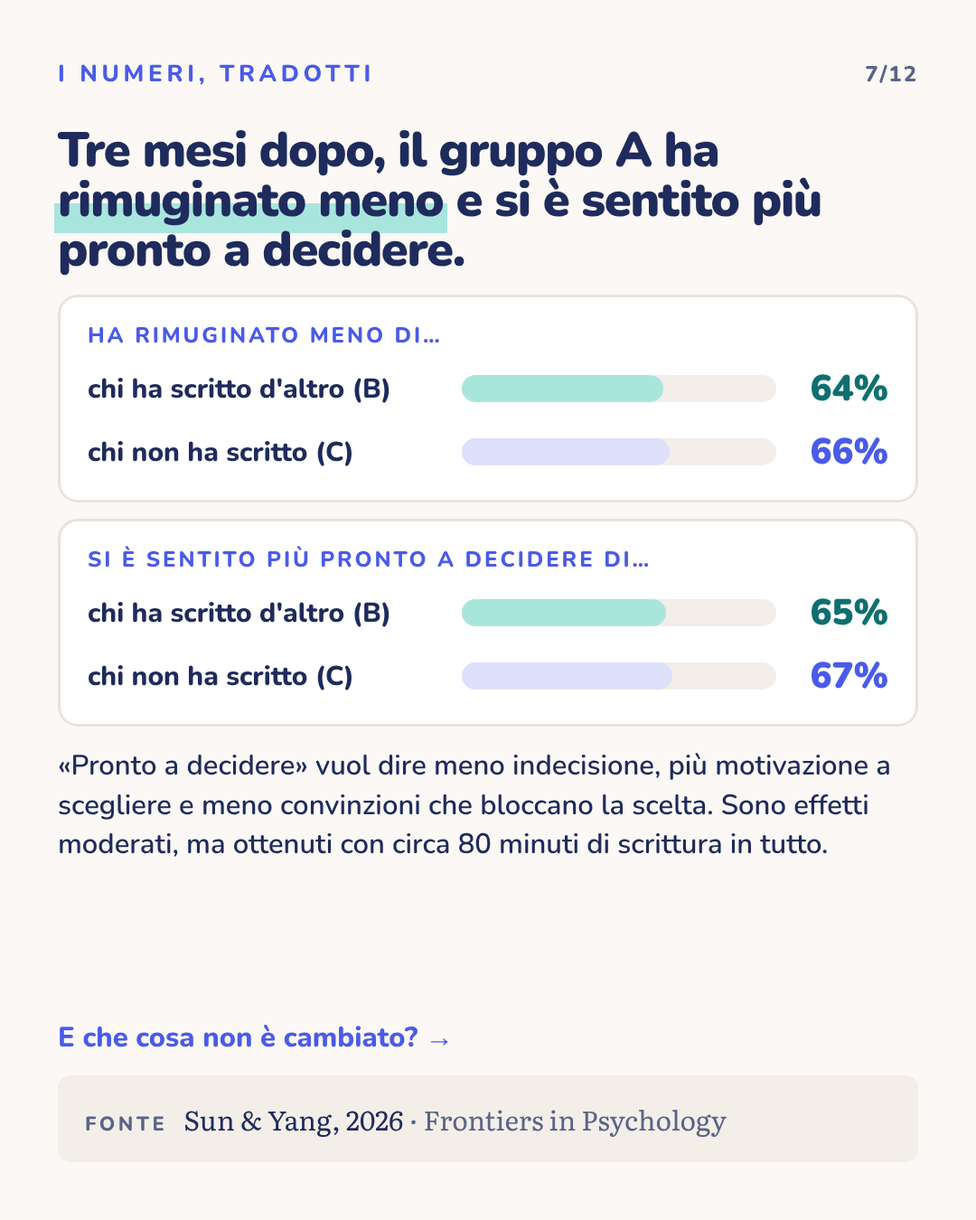
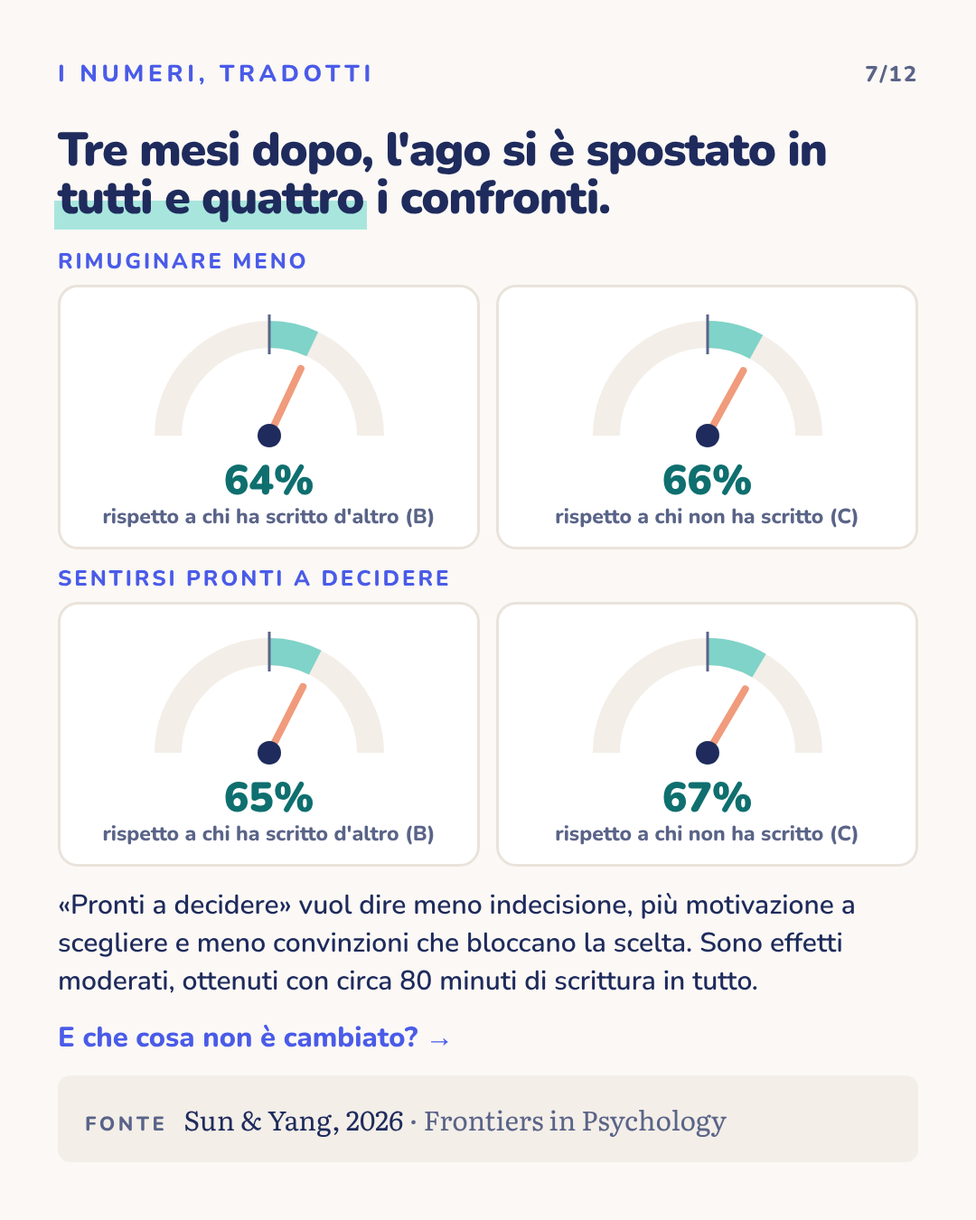
Direzione: one dial metaphor across slides 6-7, trim repetitions
Claude-Session: https://claude.ai/code/session_01KYQeP73Zvn8PeP6zhkL2Sc

Changed region(s): [[0.0611, 0.0933, 0.9472, 0.8089], [0.9167, 0.5911, 0.9472, 0.6222]]

diff --git a/carosselli/direzione/editor-testi.html b/carosselli/direzione/editor-testi.html
@@ -191,6 +191,12 @@ svg.shape{position:absolute;z-index:1}
 .sub .m{background:var(--sunk)}.sub .p{background:var(--teal-soft)}
 .sub small{font-weight:800;font-size:21px;letter-spacing:.12em;text-transform:uppercase;color:var(--muted)}
 .sub .p small{color:var(--teal-text)}
+.dg{display:flex;flex-direction:column;gap:10px}
+.dg small{font-weight:800;font-size:24px;letter-spacing:.12em;text-transform:uppercase;color:var(--peri);margin-top:6px}
+.dr{display:grid;grid-template-columns:1fr 1fr;gap:18px}
+.dc{background:var(--raised);border:3px solid var(--line);border-radius:22px;padding:14px 18px 18px;display:flex;flex-direction:column;align-items:center;gap:2px}
+.dc b{font-weight:900;font-size:46px;color:var(--teal-text);line-height:1}
+.dc span{font-weight:700;font-size:23px;color:var(--muted);text-align:center;line-height:1.3}
 .sub b{font-weight:900;font-size:40px;line-height:1.2}
 
 </style>
@@ -276,12 +282,14 @@ svg.shape{position:absolute;z-index:1}
 </section></div></div></div><div class="cell"><span class="lab">Slide 7 di 12</span><div class="frame"><div class="deck"><section class="slide" id="s7">
   <div class="top"><p class="kicker we" data-e="s7-1">I numeri, tradotti</p><div class="count" data-e="s7-2">7/12</div></div>
   <div class="stack" style="margin-top:40px;gap:22px">
-    <h2 style="font-size:54px" data-e="s7-3">Tre mesi dopo, il gruppo A ha <span class="hl t">rimuginato meno</span> e si è sentito più pronto a decidere.</h2>
-    <div class="cmp2">
-      <div class="pair"><small data-e="s7-4">Ha rimuginato meno di…</small><div class="ln"><span data-e="s7-5">chi ha scritto d'altro (B)</span><div class="tr"><i style="width:64%;background:var(--teal-soft)"></i></div><b style="color:var(--teal-text)" data-e="s7-6">64%</b></div><div class="ln"><span data-e="s7-7">chi non ha scritto (C)</span><div class="tr"><i style="width:66%;background:var(--peri-soft)"></i></div><b style="color:var(--peri)" data-e="s7-8">66%</b></div></div>
-      <div class="pair"><small data-e="s7-9">Si è sentito più pronto a decidere di…</small><div class="ln"><span data-e="s7-10">chi ha scritto d'altro (B)</span><div class="tr"><i style="width:65%;background:var(--teal-soft)"></i></div><b style="color:var(--teal-text)" data-e="s7-11">65%</b></div><div class="ln"><span data-e="s7-12">chi non ha scritto (C)</span><div class="tr"><i style="width:67%;background:var(--peri-soft)"></i></div><b style="color:var(--peri)" data-e="s7-13">67%</b></div></div>
+    <h2 style="font-size:52px" data-e="s7-3">Tre mesi dopo, l'ago si è spostato in <span class="hl t">tutti e quattro</span> i confronti.</h2>
+    <div class="dg">
+      <small data-e="s7-4">Rimuginare meno</small>
+      <div class="dr"><div class="dc"><svg width="300" height="175" viewBox="0 0 300 175"><path d="M38.0 150.0 A112 112 0 0 1 262.0 150.0" fill="none" stroke="#F3EEE8" stroke-width="30"></path><path d="M150.0 38.0 A112 112 0 0 1 197.7 48.7" fill="none" stroke="#7FD3C8" stroke-width="30"></path><line x1="150.0" y1="60.0" x2="150.0" y2="16.0" stroke="#5A6488" stroke-width="3"></line><line x1="150" y1="150" x2="184.9" y2="75.8" stroke="#F09B7C" stroke-width="8" stroke-linecap="round"></line><circle cx="150" cy="150" r="13" fill="#1E2B5C"></circle></svg><b data-e="s7-5">64%</b><span data-e="s7-6">rispetto a chi ha scritto d'altro (B)</span></div><div class="dc"><svg width="300" height="175" viewBox="0 0 300 175"><path d="M38.0 150.0 A112 112 0 0 1 262.0 150.0" fill="none" stroke="#F3EEE8" stroke-width="30"></path><path d="M150.0 38.0 A112 112 0 0 1 204.0 51.9" fill="none" stroke="#7FD3C8" stroke-width="30"></path><line x1="150.0" y1="60.0" x2="150.0" y2="16.0" stroke="#5A6488" stroke-width="3"></line><line x1="150" y1="150" x2="189.5" y2="78.1" stroke="#F09B7C" stroke-width="8" stroke-linecap="round"></line><circle cx="150" cy="150" r="13" fill="#1E2B5C"></circle></svg><b data-e="s7-7">66%</b><span data-e="s7-8">rispetto a chi non ha scritto (C)</span></div></div>
+      <small data-e="s7-9">Sentirsi pronti a decidere</small>
+      <div class="dr"><div class="dc"><svg width="300" height="175" viewBox="0 0 300 175"><path d="M38.0 150.0 A112 112 0 0 1 262.0 150.0" fill="none" stroke="#F3EEE8" stroke-width="30"></path><path d="M150.0 38.0 A112 112 0 0 1 200.8 50.2" fill="none" stroke="#7FD3C8" stroke-width="30"></path><line x1="150.0" y1="60.0" x2="150.0" y2="16.0" stroke="#5A6488" stroke-width="3"></line><line x1="150" y1="150" x2="187.2" y2="76.9" stroke="#F09B7C" stroke-width="8" stroke-linecap="round"></line><circle cx="150" cy="150" r="13" fill="#1E2B5C"></circle></svg><b data-e="s7-10">65%</b><span data-e="s7-11">rispetto a chi ha scritto d'altro (B)</span></div><div class="dc"><svg width="300" height="175" viewBox="0 0 300 175"><path d="M38.0 150.0 A112 112 0 0 1 262.0 150.0" fill="none" stroke="#F3EEE8" stroke-width="30"></path><path d="M150.0 38.0 A112 112 0 0 1 207.0 53.6" fill="none" stroke="#7FD3C8" stroke-width="30"></path><line x1="150.0" y1="60.0" x2="150.0" y2="16.0" stroke="#5A6488" stroke-width="3"></line><line x1="150" y1="150" x2="191.7" y2="79.4" stroke="#F09B7C" stroke-width="8" stroke-linecap="round"></line><circle cx="150" cy="150" r="13" fill="#1E2B5C"></circle></svg><b data-e="s7-12">67%</b><span data-e="s7-13">rispetto a chi non ha scritto (C)</span></div></div>
     </div>
-    <p class="mid" style="font-size:31px" data-e="s7-14">«Pronto a decidere» vuol dire meno indecisione, più motivazione a scegliere e meno convinzioni che bloccano la scelta. Sono effetti moderati, ma ottenuti con circa 80 minuti di scrittura in tutto.</p>
+    <p class="mid" style="font-size:30px" data-e="s7-14">«Pronti a decidere» vuol dire meno indecisione, più motivazione a scegliere e meno convinzioni che bloccano la scelta. Sono effetti moderati, ottenuti con circa 80 minuti di scrittura in tutto.</p>
   </div>
   <p class="next" data-e="s7-15">E che cosa non è cambiato? →</p>
   <div class="src"><b data-e="s7-16">FONTE</b><span data-e="s7-17"><em>Sun &amp; Yang, 2026</em> · Frontiers in Psychology</span></div>
@@ -293,10 +301,9 @@ svg.shape{position:absolute;z-index:1}
       <div><span class="x" data-e="s8-4">=</span><p data-e="s8-5"><b>Esplorare</b>Chi ha scritto del lavoro futuro non ha riflettuto su di sé né cercato informazioni sui lavori più degli altri gruppi.</p></div>
       <div><span class="x" data-e="s8-6">=</span><p data-e="s8-7"><b>Trovare lavoro</b>Tre mesi dopo, nessuna differenza dimostrata nei contratti firmati, nelle offerte ricevute o nella soddisfazione per il lavoro.</p></div>
     </div>
-    <p class="mid" style="font-size:36px" data-e="s8-8">È cambiato il <b>modo</b> di pensare al futuro, non la quantità di ricerca.</p>
   </div>
-  <p class="next" data-e="s8-9">Perché potrebbe funzionare →</p>
-  <div class="src"><b data-e="s8-10">FONTE</b><span data-e="s8-11"><em>Sun &amp; Yang, 2026</em> · Frontiers in Psychology</span></div>
+  <p class="next" data-e="s8-8">Perché potrebbe funzionare →</p>
+  <div class="src"><b data-e="s8-9">FONTE</b><span data-e="s8-10"><em>Sun &amp; Yang, 2026</em> · Frontiers in Psychology</span></div>
 </section></div></div></div><div class="cell"><span class="lab">Slide 9 di 12</span><div class="frame"><div class="deck"><section class="slide" id="s9">
   <div class="top"><p class="kicker we" data-e="s9-1">Perché succede</p><div class="count" data-e="s9-2">9/12</div></div>
   <div class="stack" style="margin-top:70px;gap:34px">
@@ -315,7 +322,7 @@ svg.shape{position:absolute;z-index:1}
   <div class="stack" style="margin-top:90px;gap:36px">
     <p class="quote" data-e="s10-3">«Per capire che strada prendere, basta informarsi di più.»</p>
     <span class="badge mito" data-e="s10-4"><i>✕</i>MITO</span>
-    <p class="body" data-e="s10-5">In questo studio non è servito cercare di più: è contato <span class="hl">il modo di pensarci</span>. Chi ha immaginato con chiarezza il proprio futuro al lavoro ha rimuginato meno, e si è sentito più pronto a scegliere.</p>
+    <p class="body" data-e="s10-5">In questo studio il gruppo che si è sentito più pronto a decidere non aveva cercato più informazioni degli altri: aveva immaginato con più chiarezza <span class="hl">il proprio lavoro futuro</span>.</p>
   </div>
   <p class="next" data-e="s10-6">Prima di concludere, i limiti →</p>
   <div class="src"><b data-e="s10-7">FONTE</b><span data-e="s10-8"><em>Sun &amp; Yang, 2026</em> · Frontiers in Psychology</span></div>

diff --git a/carosselli/direzione/slides.html b/carosselli/direzione/slides.html
@@ -161,6 +161,12 @@ svg.shape{position:absolute;z-index:1}
 .sub .m{background:var(--sunk)}.sub .p{background:var(--teal-soft)}
 .sub small{font-weight:800;font-size:21px;letter-spacing:.12em;text-transform:uppercase;color:var(--muted)}
 .sub .p small{color:var(--teal-text)}
+.dg{display:flex;flex-direction:column;gap:10px}
+.dg small{font-weight:800;font-size:24px;letter-spacing:.12em;text-transform:uppercase;color:var(--peri);margin-top:6px}
+.dr{display:grid;grid-template-columns:1fr 1fr;gap:18px}
+.dc{background:var(--raised);border:3px solid var(--line);border-radius:22px;padding:14px 18px 18px;display:flex;flex-direction:column;align-items:center;gap:2px}
+.dc b{font-weight:900;font-size:46px;color:var(--teal-text);line-height:1}
+.dc span{font-weight:700;font-size:23px;color:var(--muted);text-align:center;line-height:1.3}
 .sub b{font-weight:900;font-size:40px;line-height:1.2}
 </style>
 
@@ -249,12 +255,14 @@ svg.shape{position:absolute;z-index:1}
 <section class="slide" id="s7">
   <div class="top"><p class="kicker we">I numeri, tradotti</p><div class="count">7/12</div></div>
   <div class="stack" style="margin-top:40px;gap:22px">
-    <h2 style="font-size:54px">Tre mesi dopo, il gruppo A ha <span class="hl t">rimuginato meno</span> e si è sentito più pronto a decidere.</h2>
-    <div class="cmp2">
-      <div class="pair"><small>Ha rimuginato meno di…</small><div class="ln"><span>chi ha scritto d'altro (B)</span><div class="tr"><i style="width:64%;background:var(--teal-soft)"></i></div><b style="color:var(--teal-text)">64%</b></div><div class="ln"><span>chi non ha scritto (C)</span><div class="tr"><i style="width:66%;background:var(--peri-soft)"></i></div><b style="color:var(--peri)">66%</b></div></div>
-      <div class="pair"><small>Si è sentito più pronto a decidere di…</small><div class="ln"><span>chi ha scritto d'altro (B)</span><div class="tr"><i style="width:65%;background:var(--teal-soft)"></i></div><b style="color:var(--teal-text)">65%</b></div><div class="ln"><span>chi non ha scritto (C)</span><div class="tr"><i style="width:67%;background:var(--peri-soft)"></i></div><b style="color:var(--peri)">67%</b></div></div>
+    <h2 style="font-size:52px">Tre mesi dopo, l'ago si è spostato in <span class="hl t">tutti e quattro</span> i confronti.</h2>
+    <div class="dg">
+      <small>Rimuginare meno</small>
+      <div class="dr"><div class="dc"><svg width="300" height="175" viewBox="0 0 300 175"><path d="M38.0 150.0 A112 112 0 0 1 262.0 150.0" fill="none" stroke="#F3EEE8" stroke-width="30"></path><path d="M150.0 38.0 A112 112 0 0 1 197.7 48.7" fill="none" stroke="#7FD3C8" stroke-width="30"></path><line x1="150.0" y1="60.0" x2="150.0" y2="16.0" stroke="#5A6488" stroke-width="3"></line><line x1="150" y1="150" x2="184.9" y2="75.8" stroke="#F09B7C" stroke-width="8" stroke-linecap="round"></line><circle cx="150" cy="150" r="13" fill="#1E2B5C"></circle></svg><b>64%</b><span>rispetto a chi ha scritto d'altro (B)</span></div><div class="dc"><svg width="300" height="175" viewBox="0 0 300 175"><path d="M38.0 150.0 A112 112 0 0 1 262.0 150.0" fill="none" stroke="#F3EEE8" stroke-width="30"></path><path d="M150.0 38.0 A112 112 0 0 1 204.0 51.9" fill="none" stroke="#7FD3C8" stroke-width="30"></path><line x1="150.0" y1="60.0" x2="150.0" y2="16.0" stroke="#5A6488" stroke-width="3"></line><line x1="150" y1="150" x2="189.5" y2="78.1" stroke="#F09B7C" stroke-width="8" stroke-linecap="round"></line><circle cx="150" cy="150" r="13" fill="#1E2B5C"></circle></svg><b>66%</b><span>rispetto a chi non ha scritto (C)</span></div></div>
+      <small>Sentirsi pronti a decidere</small>
+      <div class="dr"><div class="dc"><svg width="300" height="175" viewBox="0 0 300 175"><path d="M38.0 150.0 A112 112 0 0 1 262.0 150.0" fill="none" stroke="#F3EEE8" stroke-width="30"></path><path d="M150.0 38.0 A112 112 0 0 1 200.8 50.2" fill="none" stroke="#7FD3C8" stroke-width="30"></path><line x1="150.0" y1="60.0" x2="150.0" y2="16.0" stroke="#5A6488" stroke-width="3"></line><line x1="150" y1="150" x2="187.2" y2="76.9" stroke="#F09B7C" stroke-width="8" stroke-linecap="round"></line><circle cx="150" cy="150" r="13" fill="#1E2B5C"></circle></svg><b>65%</b><span>rispetto a chi ha scritto d'altro (B)</span></div><div class="dc"><svg width="300" height="175" viewBox="0 0 300 175"><path d="M38.0 150.0 A112 112 0 0 1 262.0 150.0" fill="none" stroke="#F3EEE8" stroke-width="30"></path><path d="M150.0 38.0 A112 112 0 0 1 207.0 53.6" fill="none" stroke="#7FD3C8" stroke-width="30"></path><line x1="150.0" y1="60.0" x2="150.0" y2="16.0" stroke="#5A6488" stroke-width="3"></line><line x1="150" y1="150" x2="191.7" y2="79.4" stroke="#F09B7C" stroke-width="8" stroke-linecap="round"></line><circle cx="150" cy="150" r="13" fill="#1E2B5C"></circle></svg><b>67%</b><span>rispetto a chi non ha scritto (C)</span></div></div>
     </div>
-    <p class="mid" style="font-size:31px">«Pronto a decidere» vuol dire meno indecisione, più motivazione a scegliere e meno convinzioni che bloccano la scelta. Sono effetti moderati, ma ottenuti con circa 80 minuti di scrittura in tutto.</p>
+    <p class="mid" style="font-size:30px">«Pronti a decidere» vuol dire meno indecisione, più motivazione a scegliere e meno convinzioni che bloccano la scelta. Sono effetti moderati, ottenuti con circa 80 minuti di scrittura in tutto.</p>
   </div>
   <p class="next">E che cosa non è cambiato? →</p>
   <div class="src"><b>FONTE</b><span><em>Sun &amp; Yang, 2026</em> · Frontiers in Psychology</span></div>
@@ -268,7 +276,6 @@ svg.shape{position:absolute;z-index:1}
       <div><span class="x">=</span><p><b>Esplorare</b>Chi ha scritto del lavoro futuro non ha riflettuto su di sé né cercato informazioni sui lavori più degli altri gruppi.</p></div>
       <div><span class="x">=</span><p><b>Trovare lavoro</b>Tre mesi dopo, nessuna differenza dimostrata nei contratti firmati, nelle offerte ricevute o nella soddisfazione per il lavoro.</p></div>
     </div>
-    <p class="mid" style="font-size:36px">È cambiato il <b>modo</b> di pensare al futuro, non la quantità di ricerca.</p>
   </div>
   <p class="next">Perché potrebbe funzionare →</p>
   <div class="src"><b>FONTE</b><span><em>Sun &amp; Yang, 2026</em> · Frontiers in Psychology</span></div>
@@ -294,7 +301,7 @@ svg.shape{position:absolute;z-index:1}
   <div class="stack" style="margin-top:90px;gap:36px">
     <p class="quote">«Per capire che strada prendere, basta informarsi di più.»</p>
     <span class="badge mito"><i>✕</i>MITO</span>
-    <p class="body">In questo studio non è servito cercare di più: è contato <span class="hl">il modo di pensarci</span>. Chi ha immaginato con chiarezza il proprio futuro al lavoro ha rimuginato meno, e si è sentito più pronto a scegliere.</p>
+    <p class="body">In questo studio il gruppo che si è sentito più pronto a decidere non aveva cercato più informazioni degli altri: aveva immaginato con più chiarezza <span class="hl">il proprio lavoro futuro</span>.</p>
   </div>
   <p class="next">Prima di concludere, i limiti →</p>
   <div class="src"><b>FONTE</b><span><em>Sun &amp; Yang, 2026</em> · Frontiers in Psychology</span></div>

diff --git a/carosselli/direzione/body.html b/carosselli/direzione/body.html
@@ -86,6 +86,12 @@
 .sub .m{background:var(--sunk)}.sub .p{background:var(--teal-soft)}
 .sub small{font-weight:800;font-size:21px;letter-spacing:.12em;text-transform:uppercase;color:var(--muted)}
 .sub .p small{color:var(--teal-text)}
+.dg{display:flex;flex-direction:column;gap:10px}
+.dg small{font-weight:800;font-size:24px;letter-spacing:.12em;text-transform:uppercase;color:var(--peri);margin-top:6px}
+.dr{display:grid;grid-template-columns:1fr 1fr;gap:18px}
+.dc{background:var(--raised);border:3px solid var(--line);border-radius:22px;padding:14px 18px 18px;display:flex;flex-direction:column;align-items:center;gap:2px}
+.dc b{font-weight:900;font-size:46px;color:var(--teal-text);line-height:1}
+.dc span{font-weight:700;font-size:23px;color:var(--muted);text-align:center;line-height:1.3}
 .sub b{font-weight:900;font-size:40px;line-height:1.2}
 </style>
 
@@ -174,12 +180,14 @@
 <section class="slide" id="s7">
   <div class="top"><p class="kicker we">I numeri, tradotti</p><div class="count">7/12</div></div>
   <div class="stack" style="margin-top:40px;gap:22px">
-    <h2 style="font-size:54px">Tre mesi dopo, il gruppo A ha <span class="hl t">rimuginato meno</span> e si è sentito più pronto a decidere.</h2>
-    <div class="cmp2">
-      <div class="pair"><small>Ha rimuginato meno di…</small><div class="ln"><span>chi ha scritto d'altro (B)</span><div class="tr"><i style="width:64%;background:var(--teal-soft)"></i></div><b style="color:var(--teal-text)">64%</b></div><div class="ln"><span>chi non ha scritto (C)</span><div class="tr"><i style="width:66%;background:var(--peri-soft)"></i></div><b style="color:var(--peri)">66%</b></div></div>
-      <div class="pair"><small>Si è sentito più pronto a decidere di…</small><div class="ln"><span>chi ha scritto d'altro (B)</span><div class="tr"><i style="width:65%;background:var(--teal-soft)"></i></div><b style="color:var(--teal-text)">65%</b></div><div class="ln"><span>chi non ha scritto (C)</span><div class="tr"><i style="width:67%;background:var(--peri-soft)"></i></div><b style="color:var(--peri)">67%</b></div></div>
+    <h2 style="font-size:52px">Tre mesi dopo, l'ago si è spostato in <span class="hl t">tutti e quattro</span> i confronti.</h2>
+    <div class="dg">
+      <small>Rimuginare meno</small>
+      <div class="dr"><div class="dc"><svg width="300" height="175" viewBox="0 0 300 175"><path d="M38.0 150.0 A112 112 0 0 1 262.0 150.0" fill="none" stroke="#F3EEE8" stroke-width="30"></path><path d="M150.0 38.0 A112 112 0 0 1 197.7 48.7" fill="none" stroke="#7FD3C8" stroke-width="30"></path><line x1="150.0" y1="60.0" x2="150.0" y2="16.0" stroke="#5A6488" stroke-width="3"></line><line x1="150" y1="150" x2="184.9" y2="75.8" stroke="#F09B7C" stroke-width="8" stroke-linecap="round"></line><circle cx="150" cy="150" r="13" fill="#1E2B5C"></circle></svg><b>64%</b><span>rispetto a chi ha scritto d'altro (B)</span></div><div class="dc"><svg width="300" height="175" viewBox="0 0 300 175"><path d="M38.0 150.0 A112 112 0 0 1 262.0 150.0" fill="none" stroke="#F3EEE8" stroke-width="30"></path><path d="M150.0 38.0 A112 112 0 0 1 204.0 51.9" fill="none" stroke="#7FD3C8" stroke-width="30"></path><line x1="150.0" y1="60.0" x2="150.0" y2="16.0" stroke="#5A6488" stroke-width="3"></line><line x1="150" y1="150" x2="189.5" y2="78.1" stroke="#F09B7C" stroke-width="8" stroke-linecap="round"></line><circle cx="150" cy="150" r="13" fill="#1E2B5C"></circle></svg><b>66%</b><span>rispetto a chi non ha scritto (C)</span></div></div>
+      <small>Sentirsi pronti a decidere</small>
+      <div class="dr"><div class="dc"><svg width="300" height="175" viewBox="0 0 300 175"><path d="M38.0 150.0 A112 112 0 0 1 262.0 150.0" fill="none" stroke="#F3EEE8" stroke-width="30"></path><path d="M150.0 38.0 A112 112 0 0 1 200.8 50.2" fill="none" stroke="#7FD3C8" stroke-width="30"></path><line x1="150.0" y1="60.0" x2="150.0" y2="16.0" stroke="#5A6488" stroke-width="3"></line><line x1="150" y1="150" x2="187.2" y2="76.9" stroke="#F09B7C" stroke-width="8" stroke-linecap="round"></line><circle cx="150" cy="150" r="13" fill="#1E2B5C"></circle></svg><b>65%</b><span>rispetto a chi ha scritto d'altro (B)</span></div><div class="dc"><svg width="300" height="175" viewBox="0 0 300 175"><path d="M38.0 150.0 A112 112 0 0 1 262.0 150.0" fill="none" stroke="#F3EEE8" stroke-width="30"></path><path d="M150.0 38.0 A112 112 0 0 1 207.0 53.6" fill="none" stroke="#7FD3C8" stroke-width="30"></path><line x1="150.0" y1="60.0" x2="150.0" y2="16.0" stroke="#5A6488" stroke-width="3"></line><line x1="150" y1="150" x2="191.7" y2="79.4" stroke="#F09B7C" stroke-width="8" stroke-linecap="round"></line><circle cx="150" cy="150" r="13" fill="#1E2B5C"></circle></svg><b>67%</b><span>rispetto a chi non ha scritto (C)</span></div></div>
     </div>
-    <p class="mid" style="font-size:31px">«Pronto a decidere» vuol dire meno indecisione, più motivazione a scegliere e meno convinzioni che bloccano la scelta. Sono effetti moderati, ma ottenuti con circa 80 minuti di scrittura in tutto.</p>
+    <p class="mid" style="font-size:30px">«Pronti a decidere» vuol dire meno indecisione, più motivazione a scegliere e meno convinzioni che bloccano la scelta. Sono effetti moderati, ottenuti con circa 80 minuti di scrittura in tutto.</p>
   </div>
   <p class="next">E che cosa non è cambiato? →</p>
   <div class="src"><b>FONTE</b><span><em>Sun &amp; Yang, 2026</em> · Frontiers in Psychology</span></div>
@@ -193,7 +201,6 @@
       <div><span class="x">=</span><p><b>Esplorare</b>Chi ha scritto del lavoro futuro non ha riflettuto su di sé né cercato informazioni sui lavori più degli altri gruppi.</p></div>
       <div><span class="x">=</span><p><b>Trovare lavoro</b>Tre mesi dopo, nessuna differenza dimostrata nei contratti firmati, nelle offerte ricevute o nella soddisfazione per il lavoro.</p></div>
     </div>
-    <p class="mid" style="font-size:36px">È cambiato il <b>modo</b> di pensare al futuro, non la quantità di ricerca.</p>
   </div>
   <p class="next">Perché potrebbe funzionare →</p>
   <div class="src"><b>FONTE</b><span><em>Sun &amp; Yang, 2026</em> · Frontiers in Psychology</span></div>
@@ -219,7 +226,7 @@
   <div class="stack" style="margin-top:90px;gap:36px">
     <p class="quote">«Per capire che strada prendere, basta informarsi di più.»</p>
     <span class="badge mito"><i>✕</i>MITO</span>
-    <p class="body">In questo studio non è servito cercare di più: è contato <span class="hl">il modo di pensarci</span>. Chi ha immaginato con chiarezza il proprio futuro al lavoro ha rimuginato meno, e si è sentito più pronto a scegliere.</p>
+    <p class="body">In questo studio il gruppo che si è sentito più pronto a decidere non aveva cercato più informazioni degli altri: aveva immaginato con più chiarezza <span class="hl">il proprio lavoro futuro</span>.</p>
   </div>
   <p class="next">Prima di concludere, i limiti →</p>
   <div class="src"><b>FONTE</b><span><em>Sun &amp; Yang, 2026</em> · Frontiers in Psychology</span></div>

diff --git a/carosselli/direzione/kit-pubblicazione-direzione.md b/carosselli/direzione/kit-pubblicazione-direzione.md
@@ -6,6 +6,8 @@
 
 **Data consigliata:** **martedì 24 novembre 2026**, tra le 12:30 e le 14:00 oppure tra le 18:30 e le 20:00.
 
+**Una sola immagine per i numeri:** l'ago sul quadrante (slide 6 e 7); niente file, gare o probabilità.
+
 **Racconto lineare:** succede a molti → due modi di pensarci (esplorare / rimuginare) → la ricerca → che cosa hanno scritto → come leggere i numeri → i numeri, tradotti → che cosa non è cambiato → perché, secondo gli autori → mito o realtà → limiti → WeSelf. Prepara il bias di sabato (illusione della fine della storia), che tocca lo stesso tema.
 
 **Attenzioni:** nessun consiglio di carriera o promessa di trovare lavoro (lo studio non l'ha mostrato); «molte persone» per il rimuginare, «tu» solo per l'invito.
@@ -47,7 +49,7 @@ Quattro esercizi di scrittura sul proprio lavoro futuro, 20 minuti a settimana: 
 ```
 📚 Fonte: Sun S., Yang D. (2026). Effects of a future work self writing intervention on ruminative career exploration and career decision-making difficulties among final-year university students: a three-arm randomized controlled trial. Frontiers in Psychology, 17, 1965900. https://doi.org/10.3389/fpsyg.2026.1965900 (articolo libero) — studio randomizzato preregistrato (ChiCTR2500074449), 486 studenti, tre gruppi da 162.
 
-Come abbiamo letto i numeri: gli autori riportano gli effetti come d di Cohen, stimati alla fine dello studio (3 mesi dopo). Li abbiamo convertiti con l'indice U3 di Cohen (U3 = Φ(d)): se metti in fila le persone di un gruppo di confronto, la persona media del gruppo che ha scritto del lavoro futuro si colloca davanti a quella percentuale (50% = nessuna differenza).
+Come abbiamo letto i numeri: gli autori riportano gli effetti come d di Cohen, stimati alla fine dello studio (3 mesi dopo). Li abbiamo convertiti con l'indice U3 di Cohen (U3 = Φ(d)): è la percentuale del gruppo di confronto che ha rimuginato di più (o si è sentita meno pronta) della persona media del gruppo che ha scritto del lavoro futuro. Nelle slide la mostriamo come un ago su un quadrante da 0% a 100%: 50% = nessuna differenza.
 • Rimuginare: d = 0,35 rispetto a chi ha scritto d'altro → 64%; d = 0,41 rispetto a chi non ha scritto → 66%.
 • Mancanza di prontezza a decidere (questionario CDDQ: motivazione, indecisione, convinzioni che bloccano): d = 0,38 → 65%; d = 0,43 → 67%.
 Non è un «64% in meno» né un «64% di persone».
@@ -63,10 +65,10 @@ Esplorare (su di sé e sui lavori): nessun effetto rilevabile (d tra 0,07 e 0,13
 4. La ricerca: 486 studenti divisi a caso in tre gruppi: A scrive del lavoro futuro, B di altri progetti, C non scrive; questionari prima, subito dopo, dopo 1 e 3 mesi.
 5. Le quattro domande: chi sarò, una giornata tipo, che cosa saprò fare e con chi, un passo. Completati in media 3,7 esercizi su 4.
 6. Come leggere i numeri: un quadrante da 0% a 100% con l'ago sul 64% (la persona media del gruppo A rispetto a 100 persone del gruppo B); a metà, il 50%, significa nessuna differenza.
-7. Tre mesi dopo: ha rimuginato meno del 64% del gruppo B e del 66% del gruppo C; più pronto a decidere: 65% e 67%.
+7. Quattro quadranti con l'ago oltre la metà: rimuginare meno, 64% rispetto al gruppo B e 66% rispetto al gruppo C; sentirsi pronti a decidere, 65% e 67%.
 8. Che cosa non è cambiato: esplorare e trovare lavoro.
 9. Togliere, non aggiungere: ci si aspettava più ricerca, è risultato meno pensieri in circolo.
-10. Mito o realtà? «Per capire che strada prendere, basta informarsi di più.» Mito.
+10. Mito o realtà? «Per capire che strada prendere, basta informarsi di più.» Mito: il gruppo più pronto a decidere non aveva cercato più informazioni, aveva immaginato con più chiarezza il proprio lavoro futuro.
 11. I limiti: studenti cinesi in stagione di assunzioni; questionari e scala adattata; tre mesi, nessun effetto sul lavoro; un solo studio.
 12. Una direzione si costruisce un passo alla volta. Prova una domanda a settimana; con WeSelf piccole azioni in agenda e chi ha il tuo stesso obiettivo. Scopri WeSelf, link in bio.
 
